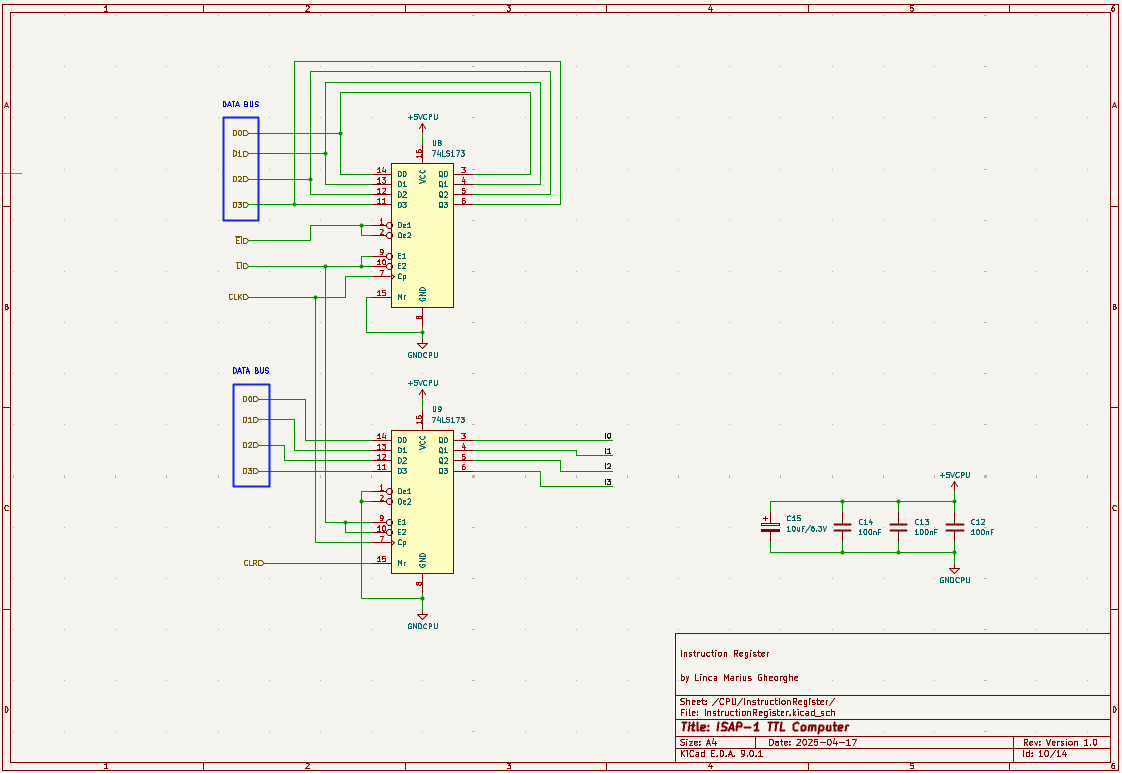
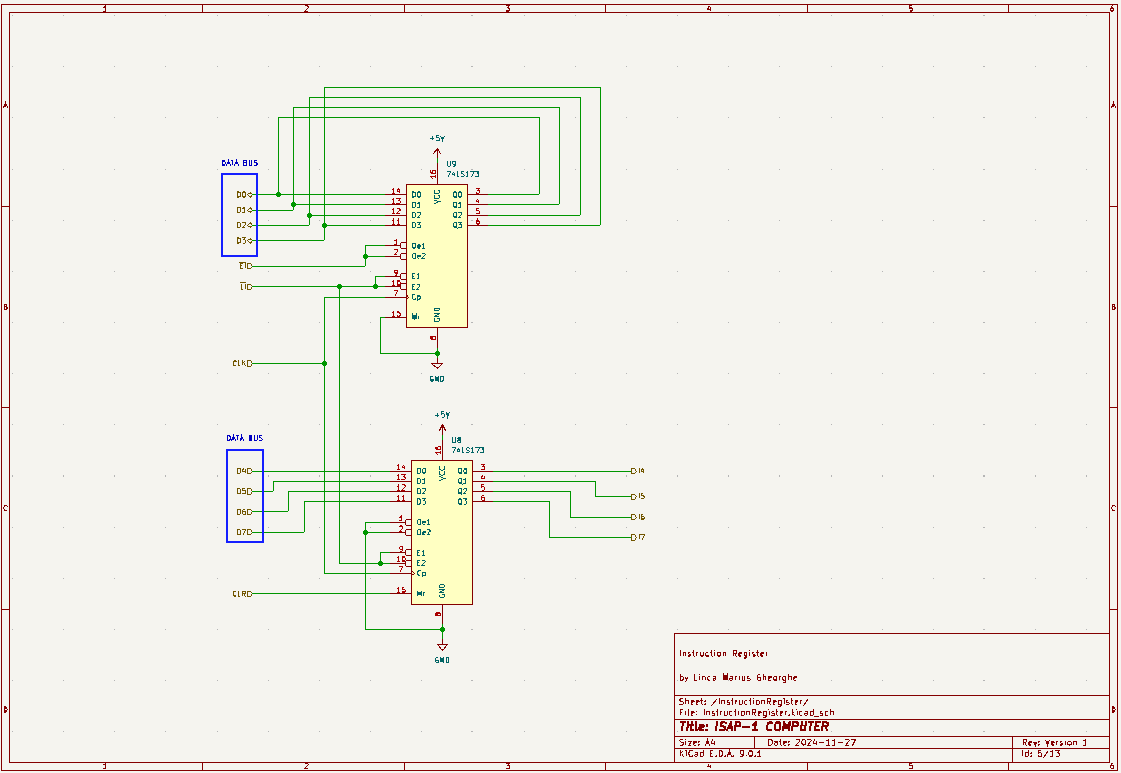
modified:   Pictures/Figure9.png

diff --git a/README.md b/README.md
@@ -103,7 +103,7 @@ Although the Memory subsystem is treated as a separate block, the schematic does
 
 ![ Figure 8 ](/Pictures/Figure8.png)
 
-I added two pairs of connectors marked J3, J4 and J5, J6 for connection to the Front Panel if it is made on a separate PCB.
+I added two pairs of connectors marked J3_1, J3_2 și J4_1, J4_2 for connection to the Front Panel if it is made on a separate PCB.
 
 The schematic has no other changes from the original schematic.
 
@@ -127,8 +127,6 @@ But in the SAP-1 computer schematic, pin 14 which is D0 and pin 3 which is Q0 ar
 So, the order of inputs and outputs is reversed. Since the inputs and outputs are also reversed accordingly, the operation of the SAP-1 computer is normal.
 
 I connected the chip pins to the bus in the order given in the catalog sheets.
-
-I added 100nF decoupling capacitors for each integrated circuit used and a 10uF filter capacitor.
 
 The Schematic does not present any other changes compared to the original one.
 
